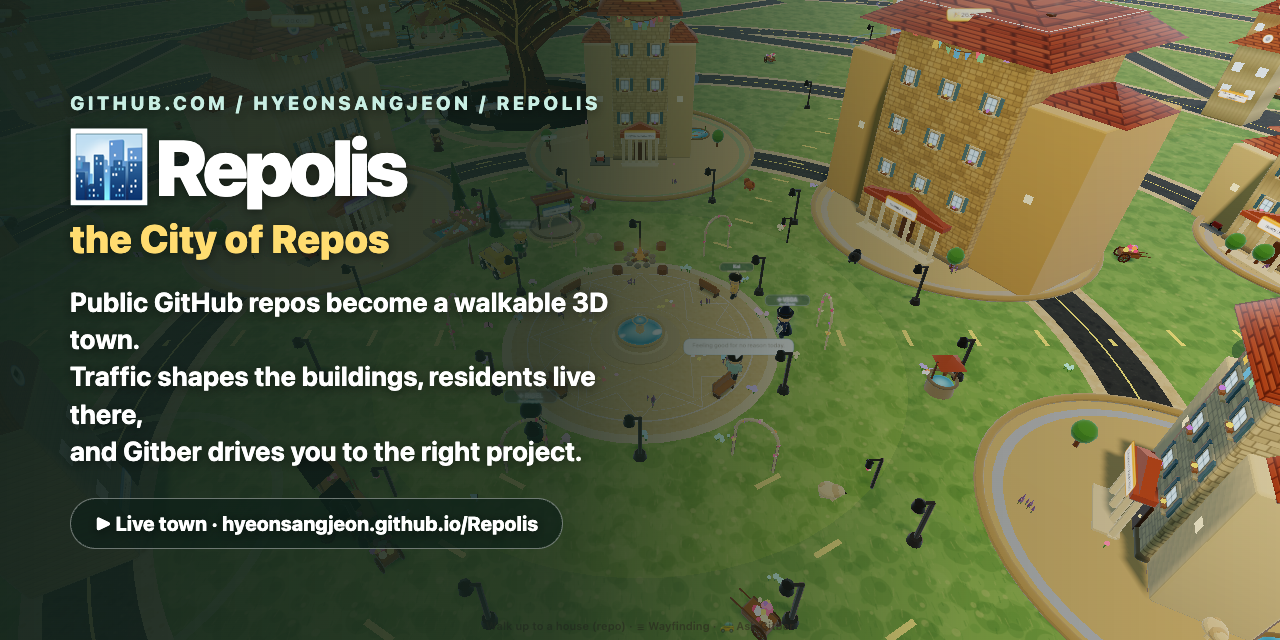
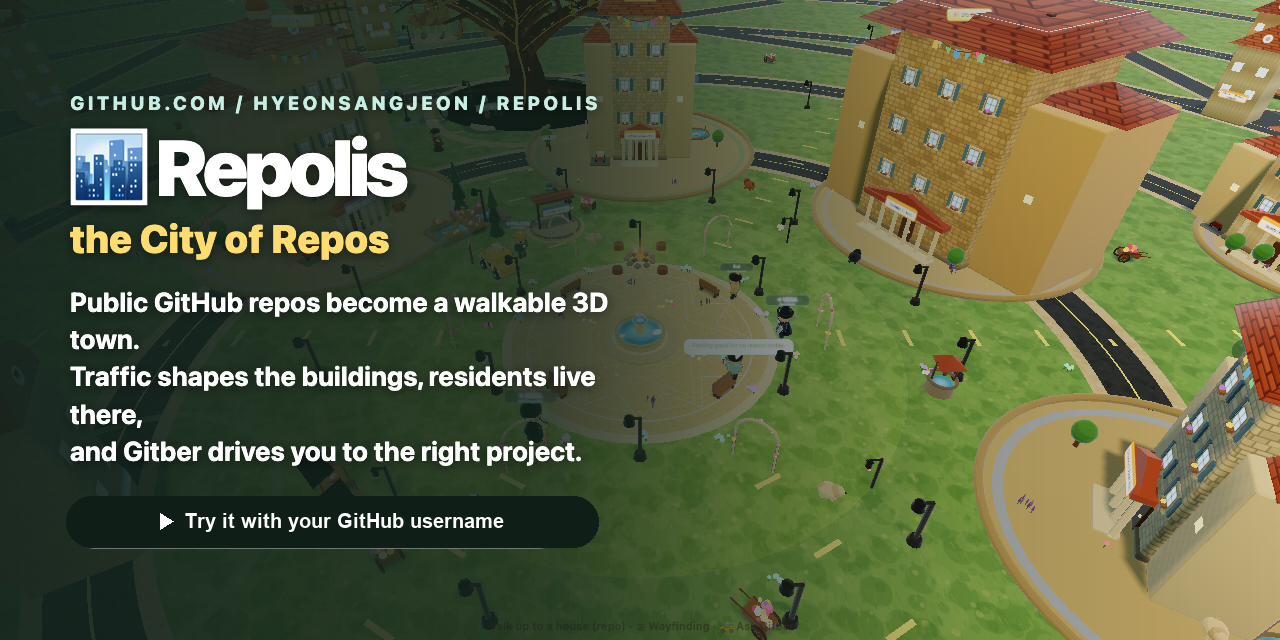
docs: show the username-to-own-town path instead of describing it
- add assets/launch.gif and assets/launch.ko.gif: a real capture of the
  launchpad, a typed username, and the resulting walkable town built from that
  account's public repos
- place each capture directly under the proof claim it supports in the EN/KO
  READMEs, so the adoption path is visible before the feature narrative
- change the social preview call to action to "Try it with your GitHub
  username", matching what a visitor can actually do on arrival
- guard both captures in scripts/smoke.mjs (format, 520x360, weight budget,
  and placement after the claim)

Changed region(s): [[0.0625, 0.75, 0.4688, 0.875]]

diff --git a/README.ko.md b/README.ko.md
@@ -35,6 +35,14 @@
 
 **가장 빠른 확인:** **[내 GitHub로 보기](https://hyeonsangjeon.github.io/Repolis/?launch=1)**를 열고 username을 입력한 뒤 내 공개 레포 사이를 걸어보세요. 토큰·계정 연결·포크가 필요 없습니다.
 
+<div align="center">
+
+<a href="https://hyeonsangjeon.github.io/Repolis/?launch=1"><img src="assets/launch.ko.gif" alt="Repolis 첫 화면에 GitHub username을 입력하면 그 계정의 공개 레포로 지은 마을을 걸어 다니는 흐름" width="86%"></a>
+
+<sub>⌨ <strong>username → 내 마을:</strong> <code>mrdoob</code> 입력 → 그의 공개 레포 58채가 걸어 다닐 수 있는 도시로</sub>
+
+</div>
+
 저장소를 보여 주는 새로운 방식이 유용했다면 **[Repolis에 Star를 남겨주세요](https://github.com/hyeonsangjeon/Repolis)**. 더 많은 개발자가 이 템플릿을 발견하는 데 도움이 됩니다.
 
 ## 미리보기에서 내 도시까지

diff --git a/README.md b/README.md
@@ -35,6 +35,14 @@
 
 **Fastest proof:** open **[Try my GitHub](https://hyeonsangjeon.github.io/Repolis/?launch=1)**, type your login, and walk through your public repos. No token, account connection, or fork is required.
 
+<div align="center">
+
+<a href="https://hyeonsangjeon.github.io/Repolis/?launch=1"><img src="assets/launch.gif" alt="Typing a GitHub username on the Repolis launchpad and walking into a town built from that account's public repositories" width="86%"></a>
+
+<sub>⌨ <strong>Username → your own town:</strong> type <code>mrdoob</code> → his 58 public repos stand up as a walkable city</sub>
+
+</div>
+
 If this gives you a useful way to present repositories, **[star Repolis](https://github.com/hyeonsangjeon/Repolis)** — it helps other developers discover the template.
 
 ## From preview to your own city
